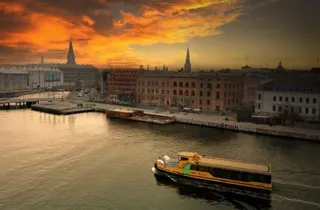
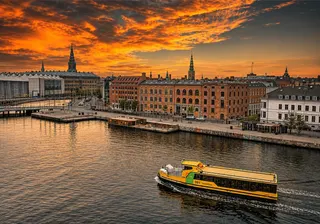
Havnegade: sharper harbour photo
Swaps the 560×367 copy for the supplied 1498×1050 version, used on the
homepage and the Sign Up page.

diff --git a/src/content/media.ts b/src/content/media.ts
@@ -80,7 +80,7 @@ export const media = {
   membership: m("dsc08126", "En gæst med saunahat ser ud over havnen og en gul havnebus", "A guest in a sauna hat looking out over the harbour and a yellow harbour bus", "60% 50%"),
   locations: {
     refshaleoen: m("dsc08017", "En liggestol i træ på dækket ud mod havnen", "A wooden lounger on the deck facing the harbour", "45% 60%"),
-    // Harbour view with a harbour bus at sunset (client, 2026-11-04); only a 560×367 copy exists.
+    // Harbour view with a harbour bus at sunset (client, 2026-11-04).
     havnegade: m(
       "havnegade-havnebus",
       "Havnen ved solnedgang med en gul havnebus på vandet og byens tårne bag kajen",
